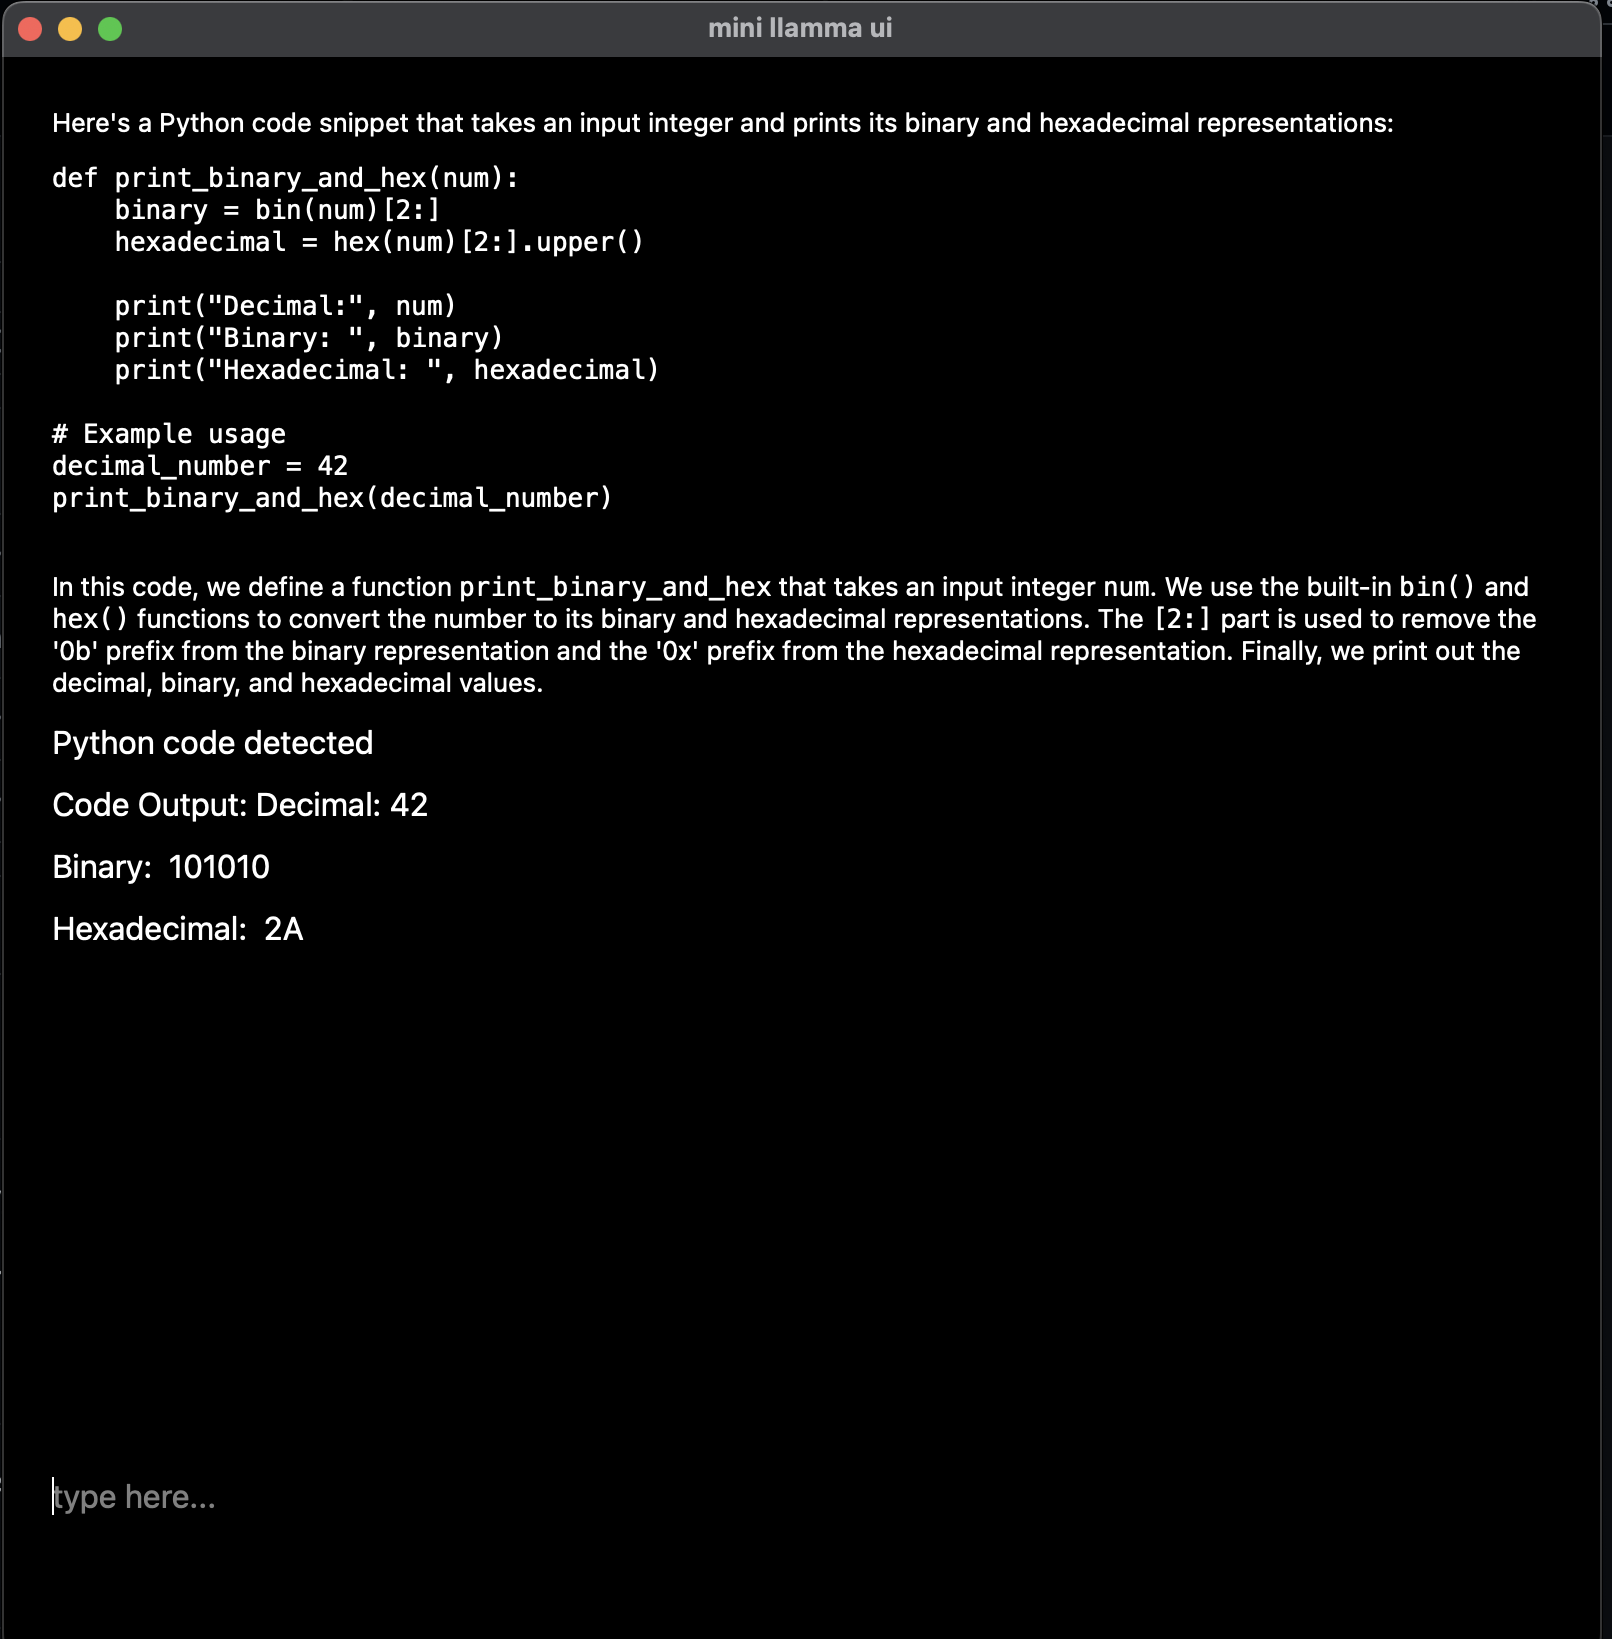
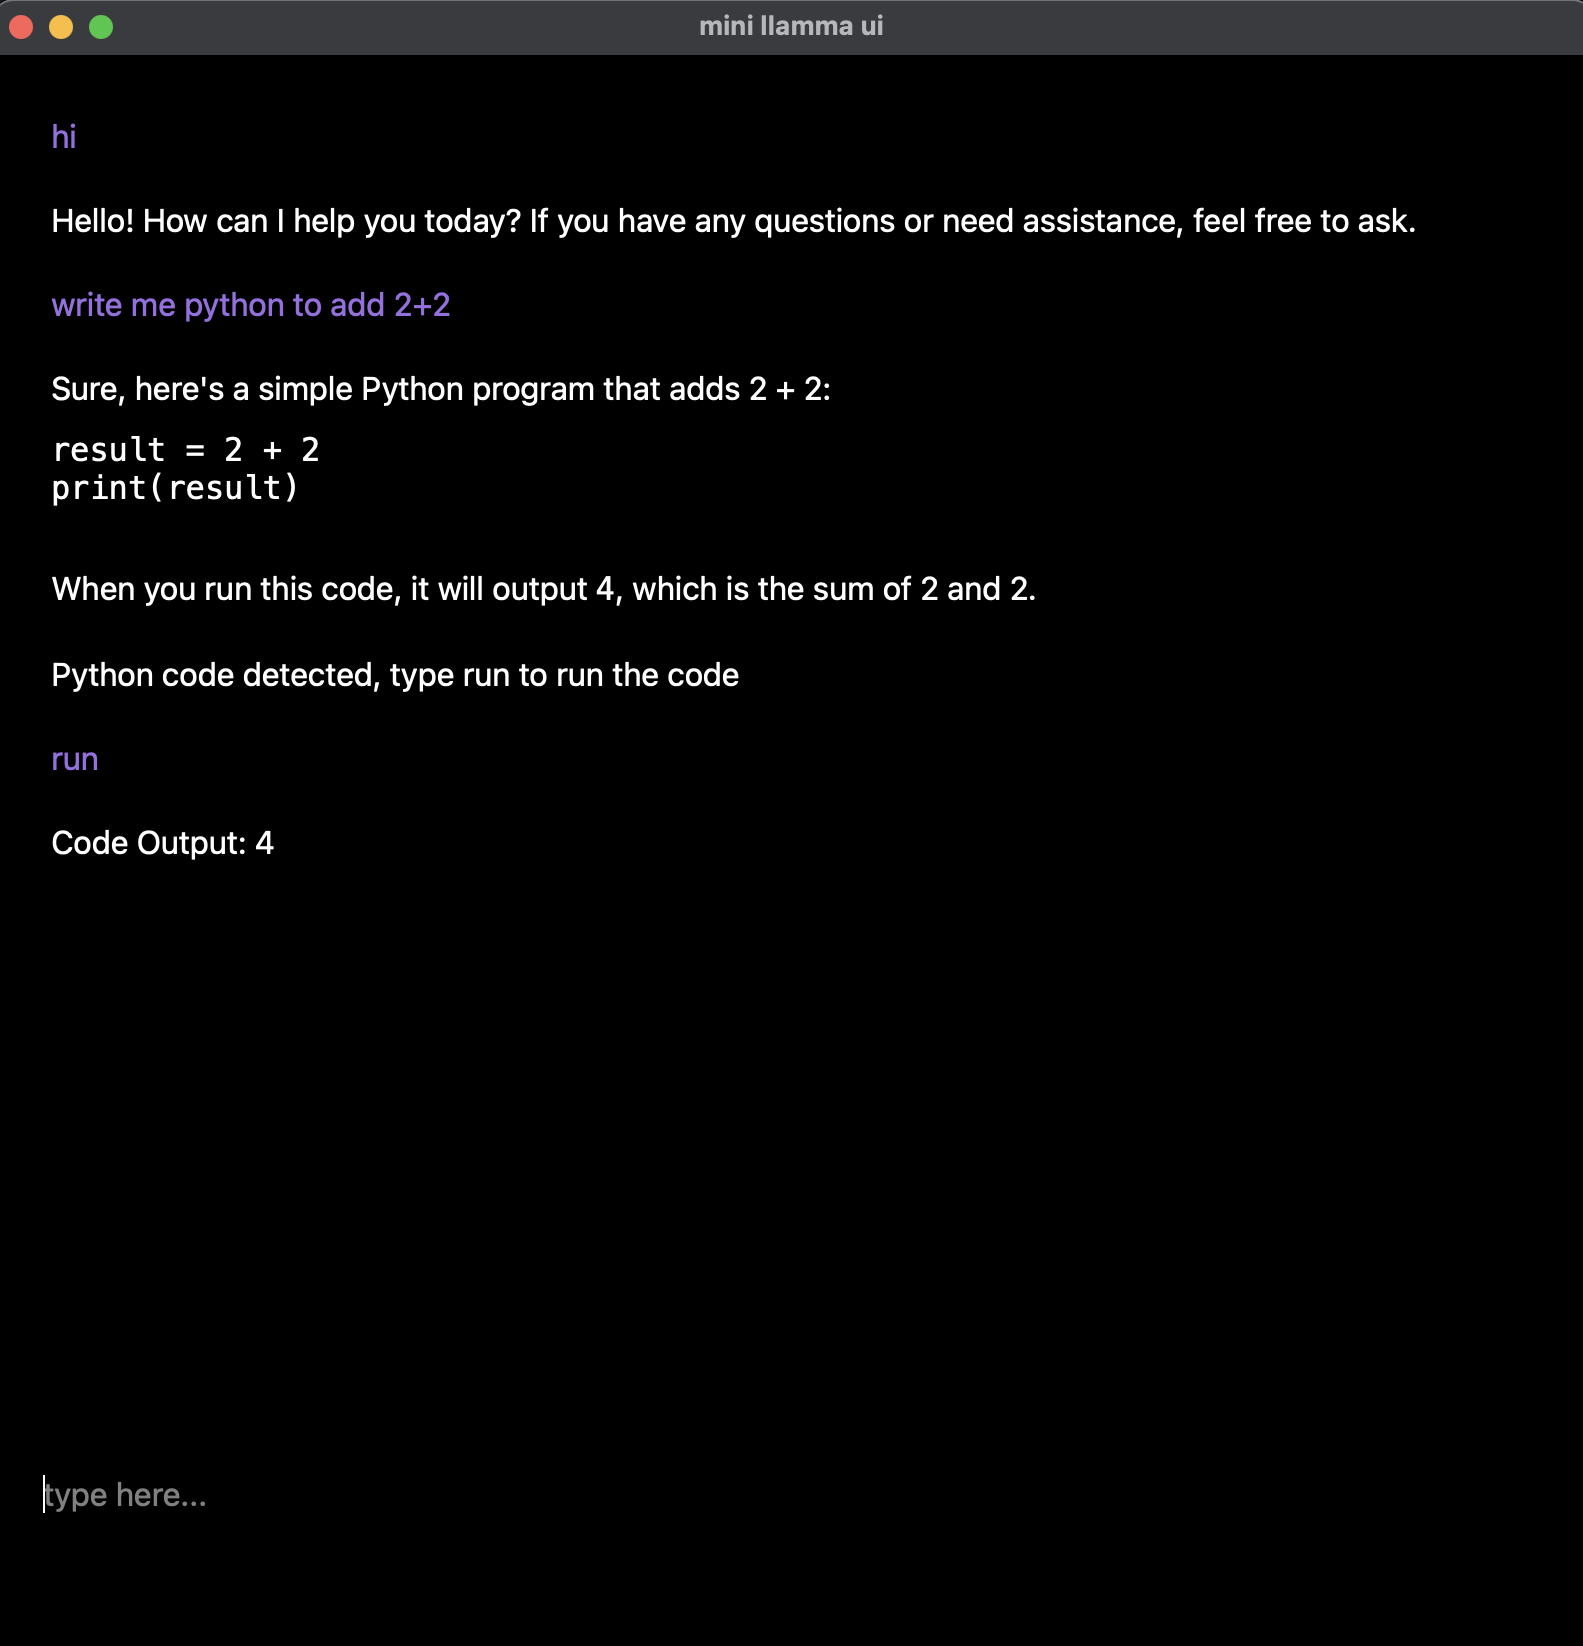
fixes: more visual bugs and updated example image

diff --git a/mini_llamaui.py b/mini_llamaui.py
@@ -199,6 +199,7 @@ class ChatApp(QWidget):
     def llama_ended(self, output_text):
         # should probably add user confirmation
         self.message_input.setDisabled(False)
+        QTimer.singleShot(0, self.set_message_input_focus)
         if "```python\n" in output_text:
             chat_box = self.create_markdown_widget()
             self.chat_layout.addWidget(chat_box)
@@ -207,6 +208,10 @@ class ChatApp(QWidget):
             self.python_code = python_code
 
     def run_python(self):
+        chat_box = self.create_markdown_widget()
+        chat_box.setStyleSheet("color: #9370DB; font-size: 16px;")
+        self.chat_layout.addWidget(chat_box)
+        chat_box.setMarkdown("run")
         captured_output = io.StringIO()
         sys.stdout = captured_output
         exec(self.python_code)
@@ -215,6 +220,7 @@ class ChatApp(QWidget):
         chat_box = self.create_markdown_widget()
         self.chat_layout.addWidget(chat_box)
         chat_box.setMarkdown("Code Output:\n" + output_result)
+        QTimer.singleShot(0, self.set_message_input_focus)
             
 if __name__ == '__main__':
     app = QApplication(sys.argv)
